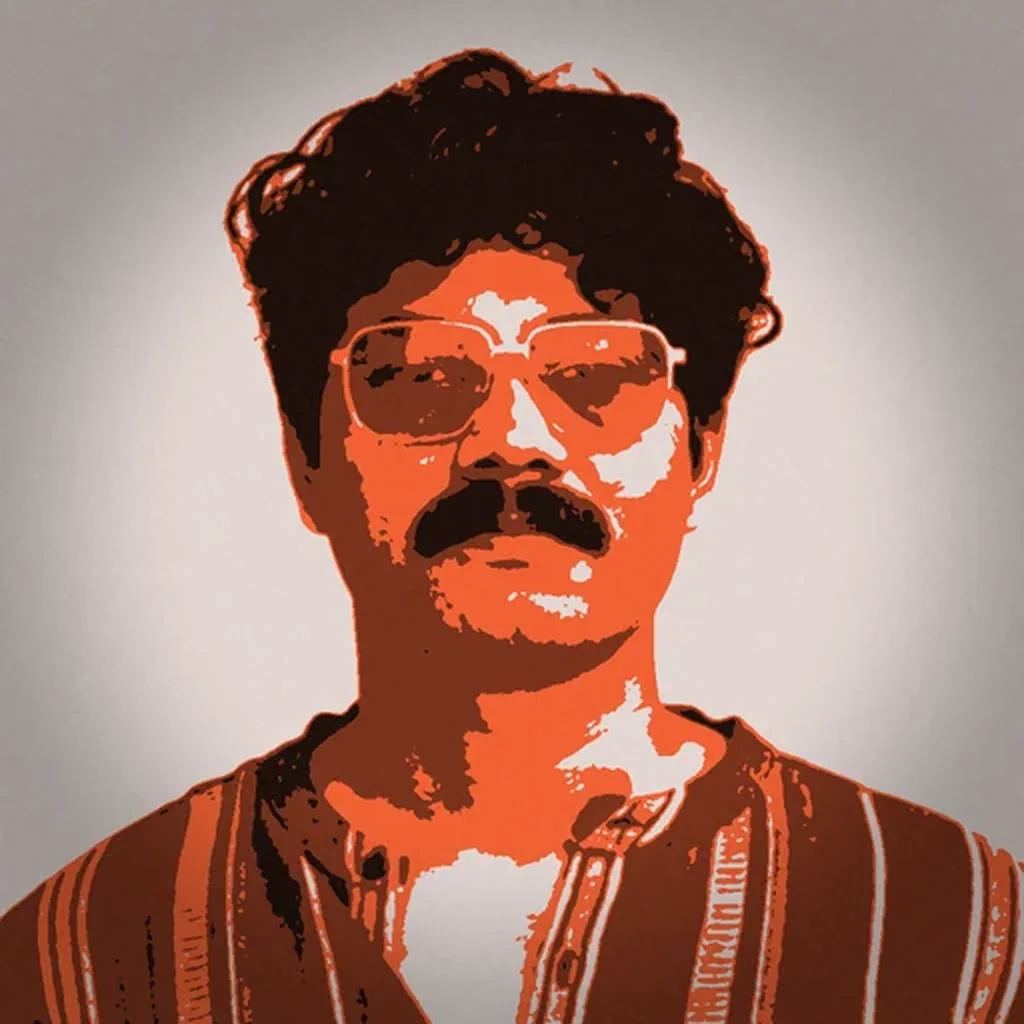
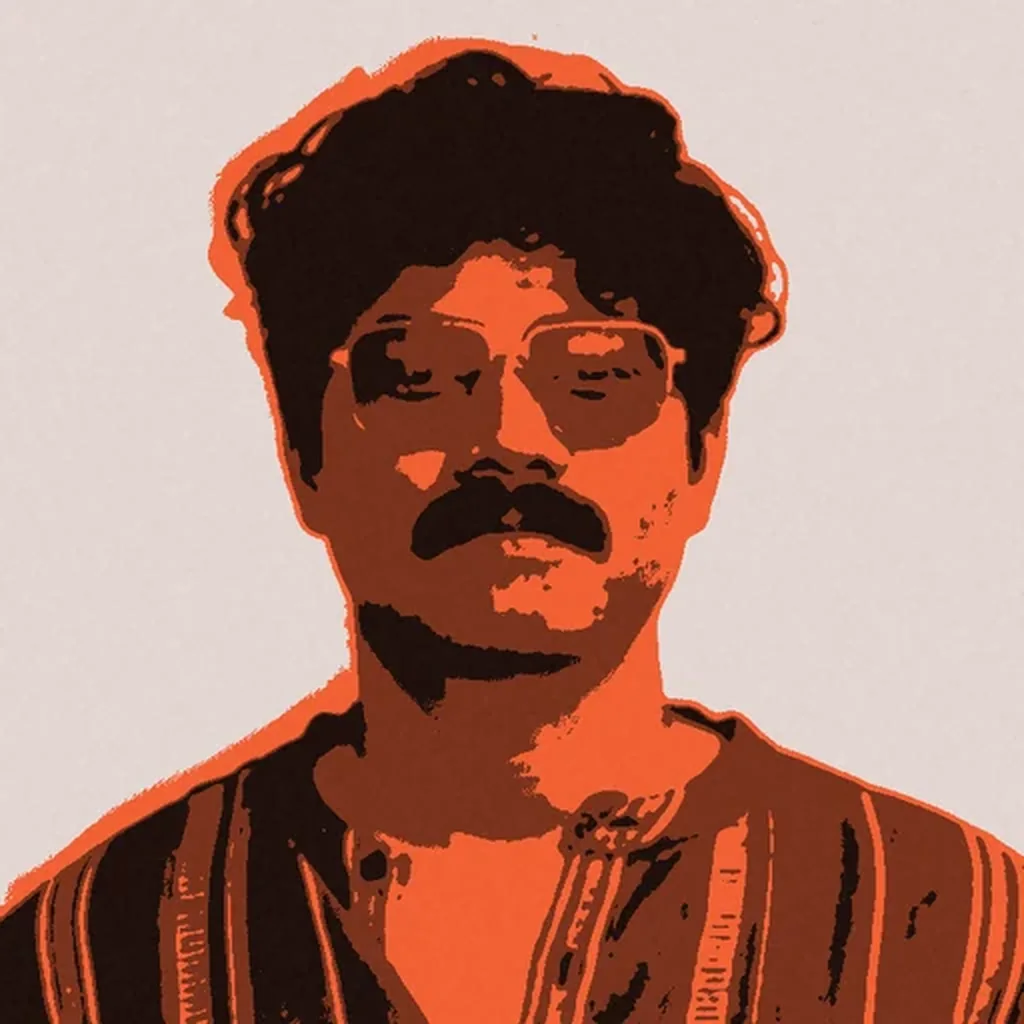
Light the portrait instead of quantising it
The flat version was a posterisation of luminance — no light model, so it read
as 2D. Three attempts, in order, with what each taught:

1. Quantise luminance. Flat: no form. (the original complaint)
2. Normals from the luminance gradient, Lambert + specular. Worse: only edges
   produce gradients on a photograph, so skin and background lit equally and
   blew out to white contour lines. A linear key falloff also drew a hard
   diagonal wedge across the frame.
3. Blend, which is what ships: luminance carries the tonal planes, a heavily
   blurred luminance acts as broad form for the directional term, and specular
   is masked to high-gradient areas so glints land on glasses and lips only.
   Band thresholds are percentiles, so the distribution stays stable across
   photos rather than depending on exposure.

Result: five tones, directional key at upper left, shadow side, lit planes, and
edge glints — a carved relief rather than a flat print. All eight accents
regenerated at 1024 for the hero and 512 for the avatar.

diff --git a/tools/make_avatar.py b/tools/make_avatar.py
@@ -89,18 +89,70 @@ def grain(shape, amount=0.045, seed=7):
     return (c * 0.7 + n * 0.3).astype(np.float32)
 
 
+def norm3(v):
+    v = np.asarray(v, dtype=np.float32)
+    return v / np.linalg.norm(v)
+
+
+def shade(g: np.ndarray, light=(-0.55, -0.42, 0.72)) -> np.ndarray:
+    """Lambert + edge glints, blended over the tonal planes.
+
+    Two earlier attempts failed and the reasons matter:
+      * raw luminance quantised -> flat poster, no form (the original complaint)
+      * normals from the luminance gradient alone -> only edges light up, the
+        face blows out to white with contour lines, plus a diagonal wedge from a
+        linear key falloff.
+
+    What works is a blend: the luminance carries the tonal planes, a *heavily
+    blurred* luminance acts as broad form for the directional term, and specular
+    is masked to high-gradient areas so glints land on glasses and lips only.
+    Thresholds are percentiles, so the band distribution is stable.
+    """
+    size = g.shape[0]
+    # broad form: blur hard, so normals describe cheeks and brow, not pores
+    hb = np.asarray(
+        Image.fromarray((g * 255).astype(np.uint8))
+             .filter(ImageFilter.GaussianBlur(size * 0.018)),
+        dtype=np.float32) / 255.0
+    gy, gx = np.gradient(hb)
+
+    relief = 3.2
+    nx, ny = -gx * relief, -gy * relief
+    nz = np.ones_like(nx)
+    nrm = np.sqrt(nx * nx + ny * ny + nz * nz) + 1e-6
+    nx, ny, nz = nx / nrm, ny / nrm, nz / nrm
+    del nrm
+
+    L = norm3(light)
+    lam = np.clip(nx * L[0] + ny * L[1] + nz * L[2], 0.0, 1.0)
+
+    H = norm3((L[0], L[1], L[2] + 1.0))
+    ndoth = np.clip(nx * H[0] + ny * H[1] + nz * H[2], 0.0, 1.0)
+    grad = np.sqrt(gx * gx + gy * gy)
+    glint_mask = np.clip(grad * 45.0, 0, 1)
+    spec = (ndoth ** 30) * glint_mask
+
+    out = 0.58 * g + 0.62 * lam + 0.42 * spec
+
+    lo, hi = np.percentile(out, 1), np.percentile(out, 99)
+    out = np.clip((out - lo) / max(hi - lo, 1e-6), 0, 1)
+    del hb, gy, gx, nx, ny, nz, lam, ndoth, grad, glint_mask, spec
+    return out
+
+
 def render(name: str, hue: float, size: int, g: np.ndarray, sat: float = 1.0) -> str:
-    idx = np.digitize(g, BANDS).astype(np.float32)
-    # NOTE: a radial spotlight was tried here and removed. With this source
-    # (bright studio background) scaling the band index radially draws
-    # concentric rings around the subject — a halo, not a lit portrait.
-    # A dark-ground version needs real background segmentation, not a mask.
-    idx = idx
-    pal = (np.array(palette(hue, sat), dtype=np.float32) / 255.0)
-    rgb = pal[idx.astype(np.uint8)]
+    lit = shade(g)
+    # five bands on percentile cut points, so the split adapts to the lighting
+    thr = np.percentile(lit, (18, 40, 62, 84))
+    idx = np.digitize(lit, thr).astype(np.uint8)
+    del lit
+    tones = palette(hue, sat)
+    # extra tone so the relief has a specular step the flat version never had
+    tones = tones[:3] + [hsl(hue, 0.22 * sat, 0.93)] + [tones[3]]
+    pal = (np.array(tones, dtype=np.float32) / 255.0)
+    rgb = pal[idx]
     del idx
-    rgb *= (1.0 - 0.30 * spotlight(g.shape)[..., None])     # gentle falloff
-    rgb += grain(rgb.shape)[..., None] * 0.55
+    rgb += grain(rgb.shape)[..., None] * 0.5
     np.clip(rgb, 0, 1, out=rgb)
     out = Image.fromarray((rgb * 255).astype(np.uint8))
     del rgb
@@ -110,6 +162,9 @@ def render(name: str, hue: float, size: int, g: np.ndarray, sat: float = 1.0) ->
     out.resize((512, 512), Image.LANCZOS).save(path, quality=88, method=6)
     if name == "green":
         out.save(os.path.join(OUT, "..", "profile-picture.png"), optimize=True)
+    with Image.open(path) as im:
+        im.resize((1024, 1024), Image.LANCZOS).save(
+            os.path.join(OUT, "..", f"portrait-{name}.webp"), quality=84, method=6)
     del out
     gc.collect()
     return path
